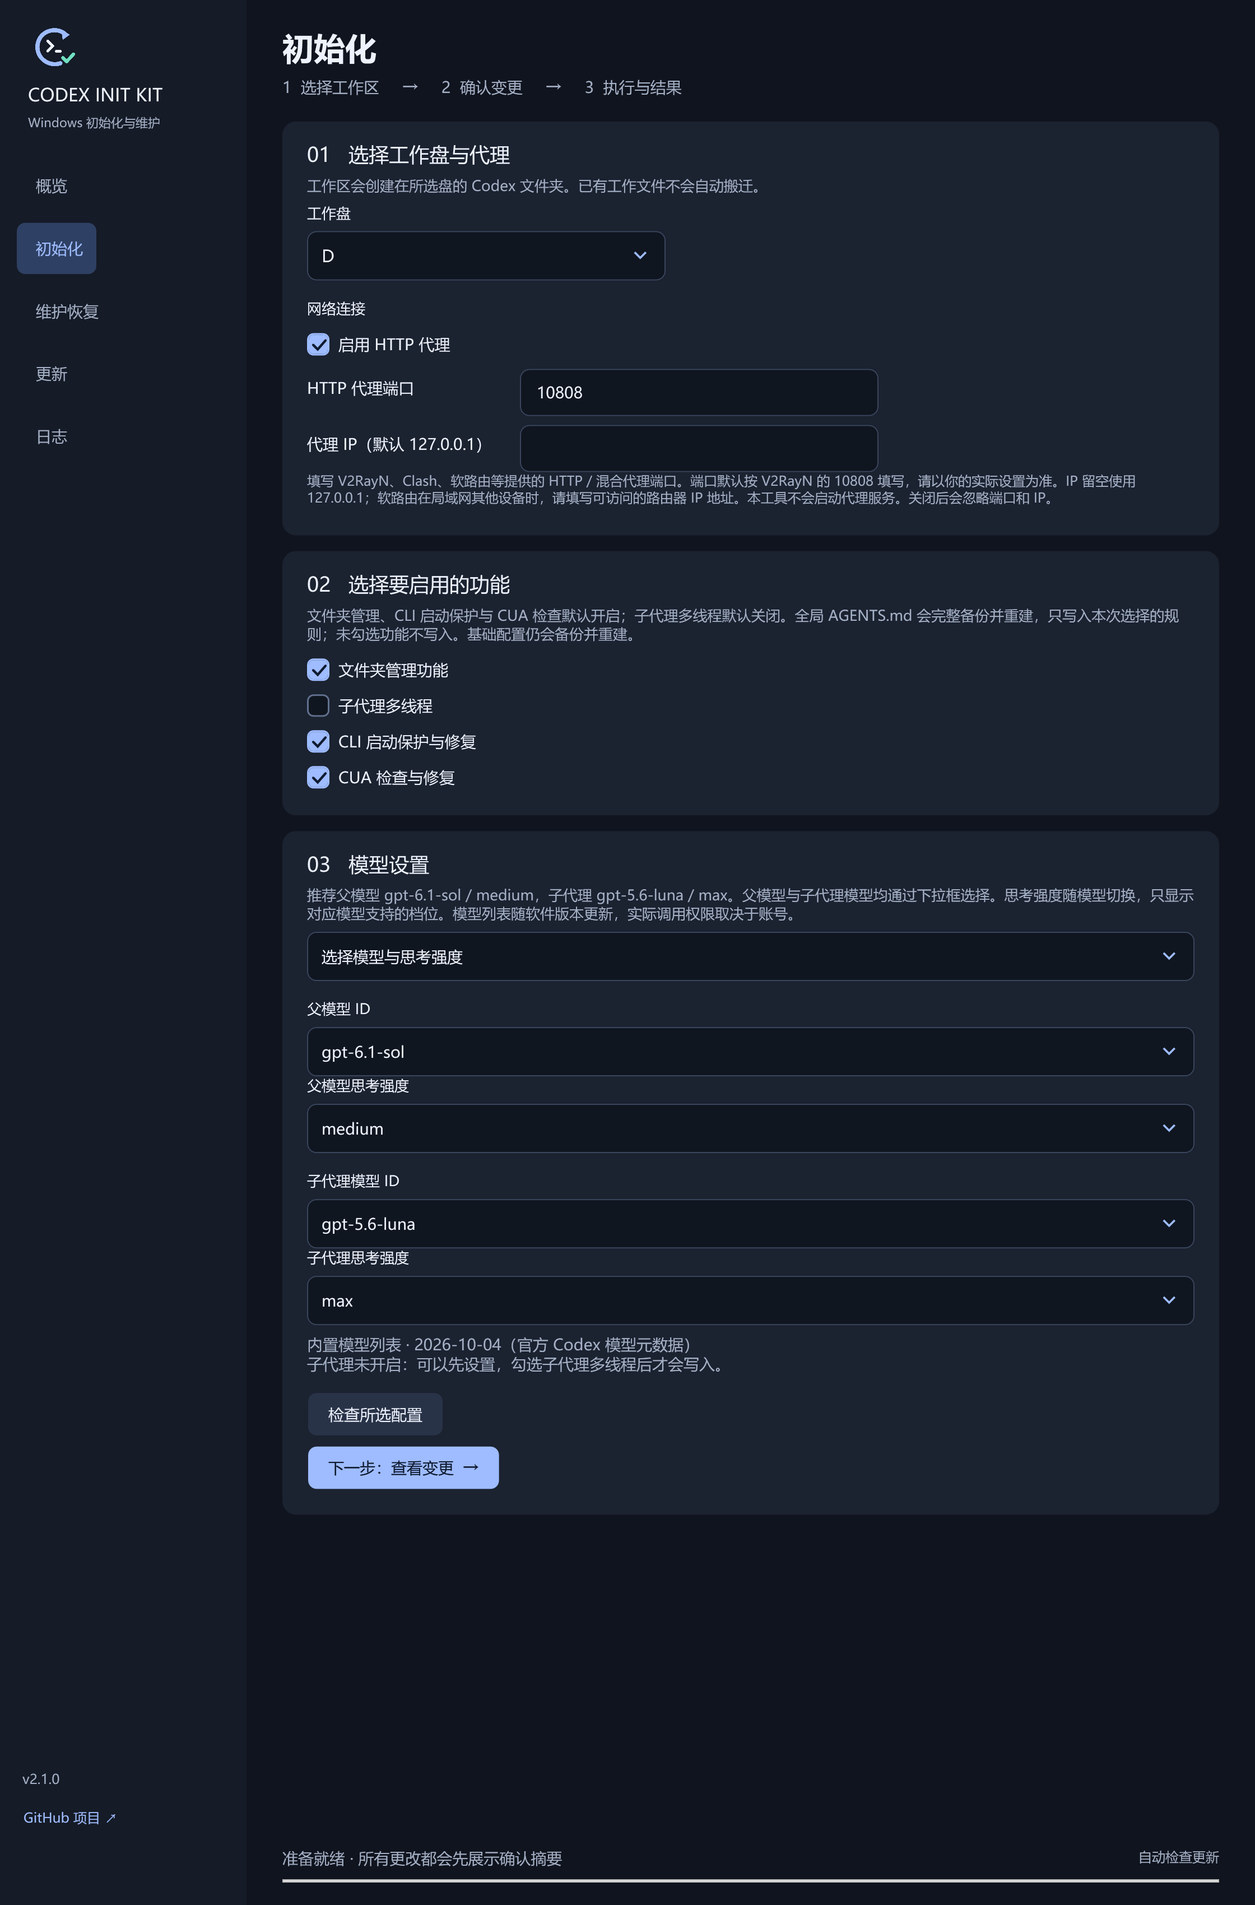
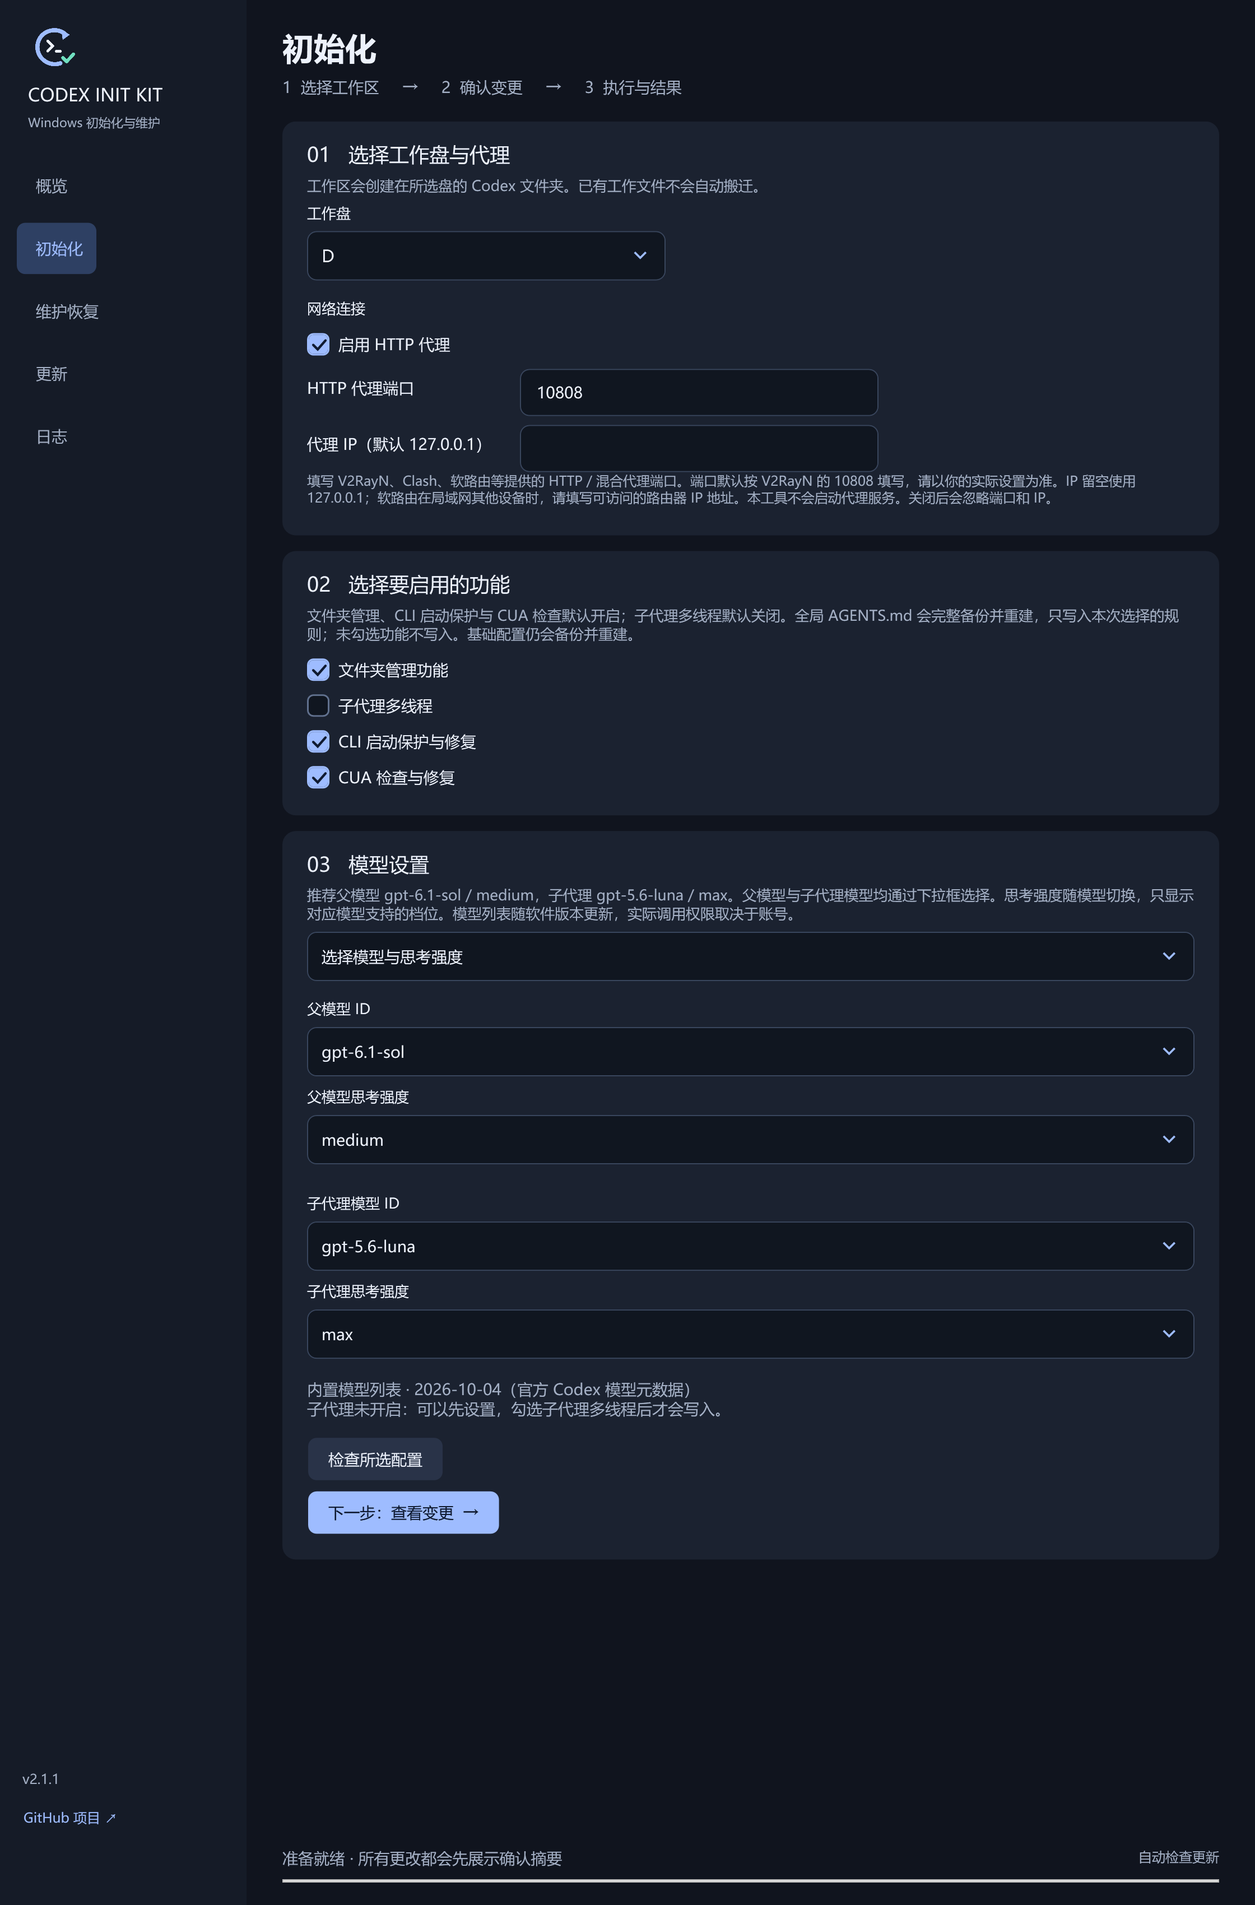
Polish scrollbars and add smooth scrolling

Changed region(s): [[0.25, 0.5612, 0.5625, 0.8106]]

diff --git a/app/Controls.xaml b/app/Controls.xaml
@@ -1,4 +1,22 @@
 <ResourceDictionary xmlns="http://schemas.microsoft.com/winfx/2006/xaml/presentation" xmlns:x="http://schemas.microsoft.com/winfx/2006/xaml">
+  <Style x:Key="KitScrollThumb" TargetType="Thumb">
+    <Setter Property="Template"><Setter.Value><ControlTemplate TargetType="Thumb"><Border x:Name="Grip" Background="#4E607C" CornerRadius="4" Margin="2"/><ControlTemplate.Triggers><Trigger Property="IsMouseOver" Value="True"><Setter TargetName="Grip" Property="Background" Value="#7996BE"/></Trigger><Trigger Property="IsDragging" Value="True"><Setter TargetName="Grip" Property="Background" Value="#9EBCFF"/></Trigger></ControlTemplate.Triggers></ControlTemplate></Setter.Value></Setter>
+  </Style>
+  <Style x:Key="KitScrollPage" TargetType="RepeatButton">
+    <Setter Property="Focusable" Value="False"/><Setter Property="Template"><Setter.Value><ControlTemplate TargetType="RepeatButton"><Border Background="Transparent"/></ControlTemplate></Setter.Value></Setter>
+  </Style>
+  <Style TargetType="ScrollBar">
+    <Setter Property="Width" Value="12"/><Setter Property="Background" Value="Transparent"/><Setter Property="MinHeight" Value="24"/>
+    <Setter Property="Template"><Setter.Value><ControlTemplate TargetType="ScrollBar">
+      <Border Background="{TemplateBinding Background}" CornerRadius="6"><Track x:Name="PART_Track" Orientation="{TemplateBinding Orientation}" IsDirectionReversed="True" Minimum="{TemplateBinding Minimum}" Maximum="{TemplateBinding Maximum}" Value="{TemplateBinding Value}" ViewportSize="{TemplateBinding ViewportSize}">
+        <Track.DecreaseRepeatButton><RepeatButton x:Name="Decrease" Command="ScrollBar.PageUpCommand" Style="{StaticResource KitScrollPage}"/></Track.DecreaseRepeatButton>
+        <Track.Thumb><Thumb x:Name="ScrollThumb" Style="{StaticResource KitScrollThumb}" MinHeight="24" MinWidth="8"/></Track.Thumb>
+        <Track.IncreaseRepeatButton><RepeatButton x:Name="Increase" Command="ScrollBar.PageDownCommand" Style="{StaticResource KitScrollPage}"/></Track.IncreaseRepeatButton>
+      </Track></Border>
+      <ControlTemplate.Triggers><Trigger Property="Orientation" Value="Horizontal"><Setter TargetName="PART_Track" Property="IsDirectionReversed" Value="False"/><Setter TargetName="ScrollThumb" Property="MinHeight" Value="8"/><Setter TargetName="ScrollThumb" Property="MinWidth" Value="24"/><Setter TargetName="Decrease" Property="Command" Value="ScrollBar.PageLeftCommand"/><Setter TargetName="Increase" Property="Command" Value="ScrollBar.PageRightCommand"/></Trigger><Trigger Property="IsEnabled" Value="False"><Setter Property="Opacity" Value="0.35"/></Trigger></ControlTemplate.Triggers>
+    </ControlTemplate></Setter.Value></Setter>
+    <Style.Triggers><Trigger Property="Orientation" Value="Horizontal"><Setter Property="Width" Value="Auto"/><Setter Property="Height" Value="12"/><Setter Property="MinHeight" Value="0"/><Setter Property="MinWidth" Value="24"/></Trigger></Style.Triggers>
+  </Style>
   <Style x:Key="KitInput" TargetType="TextBox">
     <Setter Property="Background" Value="#101620"/><Setter Property="Foreground" Value="#EDF2FC"/>
     <Setter Property="BorderBrush" Value="#39465D"/><Setter Property="BorderThickness" Value="1"/>

diff --git a/app/SmoothScrollViewer.cs b/app/SmoothScrollViewer.cs
@@ -1,0 +1,51 @@
+using System;
+using System.Windows;
+using System.Windows.Controls;
+using System.Windows.Input;
+using System.Windows.Media;
+using System.Windows.Media.Animation;
+using System.Windows.Threading;
+
+namespace CodexKit {
+public sealed class SmoothScrollViewer : ScrollViewer {
+    static readonly DependencyProperty AnimatedOffsetProperty=DependencyProperty.Register("AnimatedOffset",typeof(double),typeof(SmoothScrollViewer),new PropertyMetadata(0.0,(d,e)=>((SmoothScrollViewer)d).ScrollToVerticalOffset((double)e.NewValue)));
+    double targetOffset;
+    bool animating;
+    public SmoothScrollViewer(){CanContentScroll=false;PanningMode=PanningMode.VerticalOnly;}
+    protected override void OnPreviewMouseWheel(MouseWheelEventArgs e){
+        // Leave nested text areas and popup lists to their own scrolling controls.
+        var source=e.OriginalSource as DependencyObject;
+        while(source!=null&&source!=this){if(source is ScrollViewer)return;if(source is Visual||source is System.Windows.Media.Media3D.Visual3D)source=VisualTreeHelper.GetParent(source);else source=LogicalTreeHelper.GetParent(source);}
+        if(SystemParameters.WheelScrollLines==0||ScrollableHeight<=0){base.OnPreviewMouseWheel(e);return;}
+        var distance=SystemParameters.WheelScrollLines<0?ViewportHeight:SystemParameters.WheelScrollLines*18.0;
+        AnimateTo((animating?targetOffset:VerticalOffset)-e.Delta/120.0*distance);
+        e.Handled=true;
+    }
+    internal void AnimateTo(double offset){
+        targetOffset=Math.Max(0,Math.Min(ScrollableHeight,offset));
+        var current=VerticalOffset;
+        BeginAnimation(AnimatedOffsetProperty,null);
+        SetValue(AnimatedOffsetProperty,current);
+        if(!SystemParameters.ClientAreaAnimation){animating=false;SetValue(AnimatedOffsetProperty,targetOffset);return;}
+        animating=true;
+        var animation=new DoubleAnimation(current,targetOffset,TimeSpan.FromMilliseconds(180)){EasingFunction=new CubicEase{EasingMode=EasingMode.EaseOut},FillBehavior=FillBehavior.Stop};
+        animation.Completed+=(s,e)=>{animating=false;SetValue(AnimatedOffsetProperty,targetOffset);};
+        BeginAnimation(AnimatedOffsetProperty,animation,HandoffBehavior.SnapshotAndReplace);
+    }
+    protected override void OnPreviewMouseDown(MouseButtonEventArgs e){StopAnimation();base.OnPreviewMouseDown(e);}
+    protected override void OnPreviewKeyDown(KeyEventArgs e){StopAnimation();base.OnPreviewKeyDown(e);}
+    protected override void OnContentChanged(object oldContent,object newContent){StopAnimation();base.OnContentChanged(oldContent,newContent);}
+    void StopAnimation(){var offset=VerticalOffset;BeginAnimation(AnimatedOffsetProperty,null);animating=false;targetOffset=offset;SetValue(AnimatedOffsetProperty,offset);}
+    internal static void Verify(){
+        var view=new SmoothScrollViewer{Content=new Border{Height=4000},VerticalScrollBarVisibility=ScrollBarVisibility.Auto};
+        view.Measure(new Size(400,400));view.Arrange(new Rect(0,0,400,400));view.UpdateLayout();
+        if(view.ScrollableHeight<=0)throw new InvalidOperationException("Scroll test has no extent");
+        view.AnimateTo(300);Pump(65);view.UpdateLayout();
+        if(SystemParameters.ClientAreaAnimation&&(view.VerticalOffset<=0||view.VerticalOffset>=299))throw new InvalidOperationException("Wheel scrolling did not animate through intermediate offsets");
+        var offset=view.VerticalOffset;view.AnimateTo(600);view.UpdateLayout();if(SystemParameters.ClientAreaAnimation&&Math.Abs(view.VerticalOffset-offset)>2)throw new InvalidOperationException("Retargeting scroll animation jumped");
+        Pump(240);view.UpdateLayout();if(Math.Abs(view.VerticalOffset-600)>2)throw new InvalidOperationException("Scroll animation did not reach target");
+        view.AnimateTo(2000);Pump(40);view.UpdateLayout();view.StopAnimation();offset=view.VerticalOffset;Pump(210);view.UpdateLayout();if(Math.Abs(view.VerticalOffset-offset)>2)throw new InvalidOperationException("Cancelled scroll animation continued");
+    }
+    static void Pump(int milliseconds){var frame=new DispatcherFrame();var timer=new DispatcherTimer{Interval=TimeSpan.FromMilliseconds(milliseconds)};timer.Tick+=(s,e)=>{timer.Stop();frame.Continue=false;};timer.Start();Dispatcher.PushFrame(frame);}
+}
+}

diff --git a/app/MainWindow.cs b/app/MainWindow.cs
@@ -82,7 +82,7 @@ public class MainWindow : Window {
         foot.Children.Add(T("v"+Core.Version,12,MutedBrush)); foot.Children.Add(Link("GitHub 项目 ↗",()=>Open("https://github.com/"+Core.Repository))); Grid.SetRow(foot,2); rail.Children.Add(foot);
         var main=new Grid{Margin=new Thickness(32,25,32,20)}; main.RowDefinitions.Add(new RowDefinition{Height=GridLength.Auto}); main.RowDefinitions.Add(new RowDefinition()); main.RowDefinitions.Add(new RowDefinition{Height=GridLength.Auto}); Grid.SetColumn(main,1); layout.Children.Add(main);
         var title=new StackPanel(); heading.FontSize=28; heading.FontWeight=FontWeights.SemiBold; subtitle.Foreground=MutedBrush; subtitle.Margin=new Thickness(0,8,0,22); subtitle.TextWrapping=TextWrapping.Wrap; title.Children.Add(heading); title.Children.Add(subtitle); main.Children.Add(title);
-        var scroll=new ScrollViewer{VerticalScrollBarVisibility=ScrollBarVisibility.Auto,Content=content}; Grid.SetRow(scroll,1); main.Children.Add(scroll);
+        var scroll=new SmoothScrollViewer{VerticalScrollBarVisibility=ScrollBarVisibility.Auto,Content=content}; Grid.SetRow(scroll,1); main.Children.Add(scroll);
         var bottom=new StackPanel{Margin=new Thickness(0,15,0,0)}; banner.Foreground=MutedBrush; banner.TextWrapping=TextWrapping.Wrap; banner.Text="准备就绪 · 所有更改都会先展示确认摘要"; banner.Cursor=System.Windows.Input.Cursors.Hand;banner.ToolTip="点击查看执行日志";banner.MouseLeftButtonUp+=(s,e)=>Navigate("日志");
         var footerLine=new Grid();footerLine.ColumnDefinitions.Add(new ColumnDefinition());footerLine.ColumnDefinitions.Add(new ColumnDefinition{Width=GridLength.Auto});banner.Margin=new Thickness(0,0,16,0);footerLine.Children.Add(banner);updateStatus.Foreground=MutedBrush;updateStatus.FontSize=12;updateStatus.Text="自动检查更新";updateStatus.VerticalAlignment=VerticalAlignment.Bottom;var updateArea=new StackPanel{HorizontalAlignment=HorizontalAlignment.Right};updateNotice.HorizontalAlignment=HorizontalAlignment.Right;updateNotice.Margin=new Thickness(0);updateArea.Children.Add(updateNotice);updateArea.Children.Add(updateStatus);Grid.SetColumn(updateArea,1);footerLine.Children.Add(updateArea);
         progress.Height=3; progress.Margin=new Thickness(0,10,0,0); progress.Maximum=100; bottom.Children.Add(footerLine); bottom.Children.Add(progress); Grid.SetRow(bottom,2); main.Children.Add(bottom);
@@ -95,7 +95,7 @@ public class MainWindow : Window {
         var checks=new[]{proxyEnabled,folderManagement,subagents,guard,cuaRepair};var labels=new[]{"启用 HTTP 代理","文件夹管理功能","子代理多线程","CLI 启动保护与修复","CUA 检查与修复"};for(int i=0;i<checks.Length;i++){checks[i].Style=(Style)Resources["KitCheck"];checks[i].Content=labels[i];checks[i].IsChecked=i!=2;}
         proxyEnabled.Checked+=(s,e)=>{port.IsEnabled=true;proxyHost.IsEnabled=true;};proxyEnabled.Unchecked+=(s,e)=>{port.IsEnabled=false;proxyHost.IsEnabled=false;};
         modelMode.Style=(Style)Resources["KitCombo"];modelMode.ItemsSource=new[]{"使用推荐模型","选择模型与思考强度"};modelMode.SelectedIndex=0;modelMode.SelectionChanged+=(s,e)=>UpdateModelInputs();
-        parentEffort.Style=(Style)Resources["KitCombo"];childEffort.Style=(Style)Resources["KitCombo"];
+        parentEffort.Style=(Style)Resources["KitCombo"];childEffort.Style=(Style)Resources["KitCombo"];foreach(var input in new[]{parentModel,childModel,parentEffort,childEffort})input.Margin=new Thickness(0,0,0,10);
         parentEffort.ItemsSource=ModelCatalog.CommonEfforts;parentEffort.SelectedItem="medium";childEffort.ItemsSource=ModelCatalog.CommonEfforts;childEffort.SelectedItem="max";
         parentModel.Text="gpt-6.1-sol";childModel.Text="gpt-5.6-luna";
         foreach(var input in new[]{parentModel,childModel}){input.Style=(Style)Resources["KitCombo"];input.IsEditable=false;input.IsTextSearchEnabled=true;input.FontSize=14;input.ToolTip="仅可从预设官方模型列表选择。";}

diff --git a/app/Program.cs b/app/Program.cs
@@ -58,7 +58,7 @@ public static class Program {
             if(!catalog.Check("fixture-model","high").Contains("核对通过")||catalog.Models["fixture-model"].Efforts[0]!="high")throw new InvalidDataException("Model catalog validation or ordering failed");
             foreach(var bad in new[]{"display name","bad;model","fixture-model\n"})if(ModelCatalog.ValidId(bad))throw new InvalidDataException("Unsafe model catalog ID accepted");
             bool unsupported=false;try{catalog.Check("fixture-model","ultra");}catch(InvalidOperationException){unsupported=true;}if(!unsupported)throw new InvalidDataException("Unsupported model effort accepted");unsupported=false;try{catalog.Check("vendor/custom:v1","max");}catch(InvalidOperationException){unsupported=true;}if(!unsupported)throw new InvalidDataException("Unlisted model accepted");var preset=ModelCatalog.Preset();if(preset.Models.Count!=8||preset.Models["gpt-5.6-luna"].Efforts.Contains("ultra"))throw new InvalidDataException("Preset model choices changed");checks["model_catalog_validation"]=true;
-            var app=new Application(); var window=new MainWindow(true);window.VerifyPages(); checks["pages_and_navigation"]=true; window.Close();
+            var app=new Application(); var window=new MainWindow(true);window.VerifyPages(); checks["pages_and_navigation"]=true;SmoothScrollViewer.Verify();checks["smooth_scrolling"]=true; window.Close();
             checks["worker_rejects_invalid_operation"]=Core.Worker(new[]{"--worker","invalid",Guid.NewGuid().ToString("N"),"D","10808","0",Core.Sid})==64;
             checks["worker_rejects_invalid_drive"]=Core.Worker(new[]{"--worker","status",Guid.NewGuid().ToString("N"),"&","10808","0",Core.Sid})==64;
             var options=Core.NormalizeOptions(new Dictionary<string,object>{{"folderManagement",false},{"subagents",false},{"cuaRepair",false},{"parentModel","custom-parent"},{"childModel","custom-child"}});if((bool)options["folderManagement"]||(bool)options["subagents"]||(bool)options["cuaRepair"]||Convert.ToString(options["parentModel"])!="custom-parent")throw new InvalidDataException("Setup options were not preserved");checks["setup_options"]=true;

diff --git a/app/Core.cs b/app/Core.cs
@@ -16,7 +16,7 @@ using System.Net.Sockets;
 
 namespace CodexKit {
 public static class Core {
-    public const string Version = "2.1.0";
+    public const string Version = "2.1.1";
     public const string Repository = "BerryFuwawa/codex-init-kit";
     public static readonly string Root = Path.Combine(Environment.GetFolderPath(Environment.SpecialFolder.LocalApplicationData), "CodexInitKit", "Desktop");
     public static readonly JavaScriptSerializer Json = new JavaScriptSerializer();

diff --git a/app/AssemblyInfo.cs b/app/AssemblyInfo.cs
@@ -2,5 +2,5 @@ using System.Reflection;
 [assembly:AssemblyTitle("Codex Init Kit")]
 [assembly:AssemblyDescription("Codex workspace initialization, CUA repair and startup protection")]
 [assembly:AssemblyProduct("Codex Init Kit Desktop")]
-[assembly:AssemblyVersion("2.1.0.0")]
-[assembly:AssemblyFileVersion("2.1.0.0")]
+[assembly:AssemblyVersion("2.1.1.0")]
+[assembly:AssemblyFileVersion("2.1.1.0")]

diff --git a/docs/Desktop.md b/docs/Desktop.md
@@ -1,4 +1,4 @@
-# Codex Init Kit Desktop 2.1.0
+# Codex Init Kit Desktop 2.1.1
 
 这个程序把初始化、电脑操作组件修复和启动维护放进一个窗口。下载 `CodexInitKit.exe` 就能使用，所需脚本已包含在程序里。
 
@@ -26,9 +26,9 @@ CUA 组件目录为 `%LOCALAPPDATA%\OpenAI\Codex\runtimes\cua_node`。有些 Win
 
 ## 获取与启动
 
-v2.1.0 已发布：[BerryFuwawa/codex-init-kit v2.1.0](https://github.com/BerryFuwawa/codex-init-kit/releases/tag/v2.1.0)。下载 [CodexInitKit.exe](https://github.com/BerryFuwawa/codex-init-kit/releases/download/v2.1.0/CodexInitKit.exe) 即可启动，无需旁置 CMD 或自行编译。环境要求为 Windows x64、.NET Framework 4.8 和 Windows PowerShell 5.1；EXE 尚未做代码签名。
+v2.1.1 已发布：[BerryFuwawa/codex-init-kit v2.1.1](https://github.com/BerryFuwawa/codex-init-kit/releases/tag/v2.1.1)。下载 [CodexInitKit.exe](https://github.com/BerryFuwawa/codex-init-kit/releases/download/v2.1.1/CodexInitKit.exe) 即可启动，无需旁置 CMD 或自行编译。环境要求为 Windows x64、.NET Framework 4.8 和 Windows PowerShell 5.1；EXE 尚未做代码签名。
 
-正式文件的 SHA-256 与大小可在发布页资产信息和 [SHA256SUMS.txt](https://github.com/BerryFuwawa/codex-init-kit/releases/download/v2.1.0/SHA256SUMS.txt) 中核对。
+正式文件的 SHA-256 与大小可在发布页资产信息和 [SHA256SUMS.txt](https://github.com/BerryFuwawa/codex-init-kit/releases/download/v2.1.1/SHA256SUMS.txt) 中核对。
 
 首次使用可直接下载 EXE。已有版本可启动后检查更新，也可手动下载替换。
 
@@ -56,7 +56,7 @@ v2.1.0 已发布：[BerryFuwawa/codex-init-kit v2.1.0](https://github.com/BerryF
 
 | 项目 | 默认值或位置 |
 | --- | --- |
-| 版本 | `2.1.0` |
+| 版本 | `2.1.1` |
 | 内嵌初始化组件 | `4.8.3` |
 | 内嵌启动保护组件 | `5.2.1` |
 | 工作目录 | `<盘符>:\Codex`；默认选 `D`，不可用时选择第一个可用固定盘 |

diff --git a/README.md b/README.md
@@ -135,6 +135,8 @@
 
 ## 界面展示
 
+界面使用深色圆角控件与滚动条，鼠标滚轮支持平滑滚动。
+
 **概览：** 查看默认模型和当前状态，从这里进入初始化。
 
 ![Codex Init Kit 概览页面](assets/screenshots/overview.png)
@@ -150,7 +152,7 @@
 
 ![Codex Init Kit 维护恢复页面](assets/screenshots/maintenance.png)
 
-图片来自当前 2.1.0 EXE，按 192 DPI（200% 缩放）离线渲染，点击图片可查看高清原图。初始化设置图包含代理端口与 IP、四项功能选择和模型选择；子代理默认未勾选。模型设置图展示模型选择模式，默认仍使用推荐模型。图中展开了完整内容，实际窗口可滚动。概览使用示例状态，未执行真实初始化或修复，状态以你电脑上的检测结果为准。
+图片来自当前 2.1.1 EXE，按 192 DPI（200% 缩放）离线渲染，点击图片可查看高清原图。初始化设置图包含代理端口与 IP、四项功能选择和模型选择；子代理默认未勾选。模型设置图展示模型选择模式，默认仍使用推荐模型。图中展开了完整内容，实际窗口可滚动。概览使用示例状态，未执行真实初始化或修复，状态以你电脑上的检测结果为准。
 
 ## CLI 验证与源码构建
 

diff --git a/docs/Scripts.md b/docs/Scripts.md
@@ -2,7 +2,7 @@
 
 普通使用建议下载 EXE，在窗口里选择操作。下面的 CMD 是保留给习惯脚本操作的用户的入口，EXE 已经包含它们，不需要额外下载。
 
-桌面版 2.1.0 使用第 1 步内部版本 4.8.3 和第 2 步内部版本 5.2.1；脚本文件名沿用稳定入口名称。
+桌面版 2.1.1 使用第 1 步内部版本 4.8.3 和第 2 步内部版本 5.2.1；脚本文件名沿用稳定入口名称。
 
 **第 1 步负责“把配置整理好”**：目录放哪、模型用哪个、代理端口是多少，以及电脑操作组件是否完整。完整初始化会先备份再重建配置。
 

diff --git a/docs/Release-2.1.1.md b/docs/Release-2.1.1.md
@@ -1,0 +1,8 @@
+# Codex Init Kit 2.1.1
+
+## 优化
+
+- 统一滚动条的深色圆角样式，增加悬停与拖动反馈。
+- 鼠标滚轮采用平滑滚动，连续滚动时自然衔接，减少页面跳动。
+- 调整模型设置区的控件间距。
+- 遵循 Windows 动画设置，关闭系统动画时直接滚动。

diff --git a/docs/Settings.md b/docs/Settings.md
@@ -1,4 +1,4 @@
-# 初始化选项（2.1.0）
+# 初始化选项（2.1.1）
 
 可在初始化页面选择代理、功能和模型，确认页会展示本次实际选择。
 
